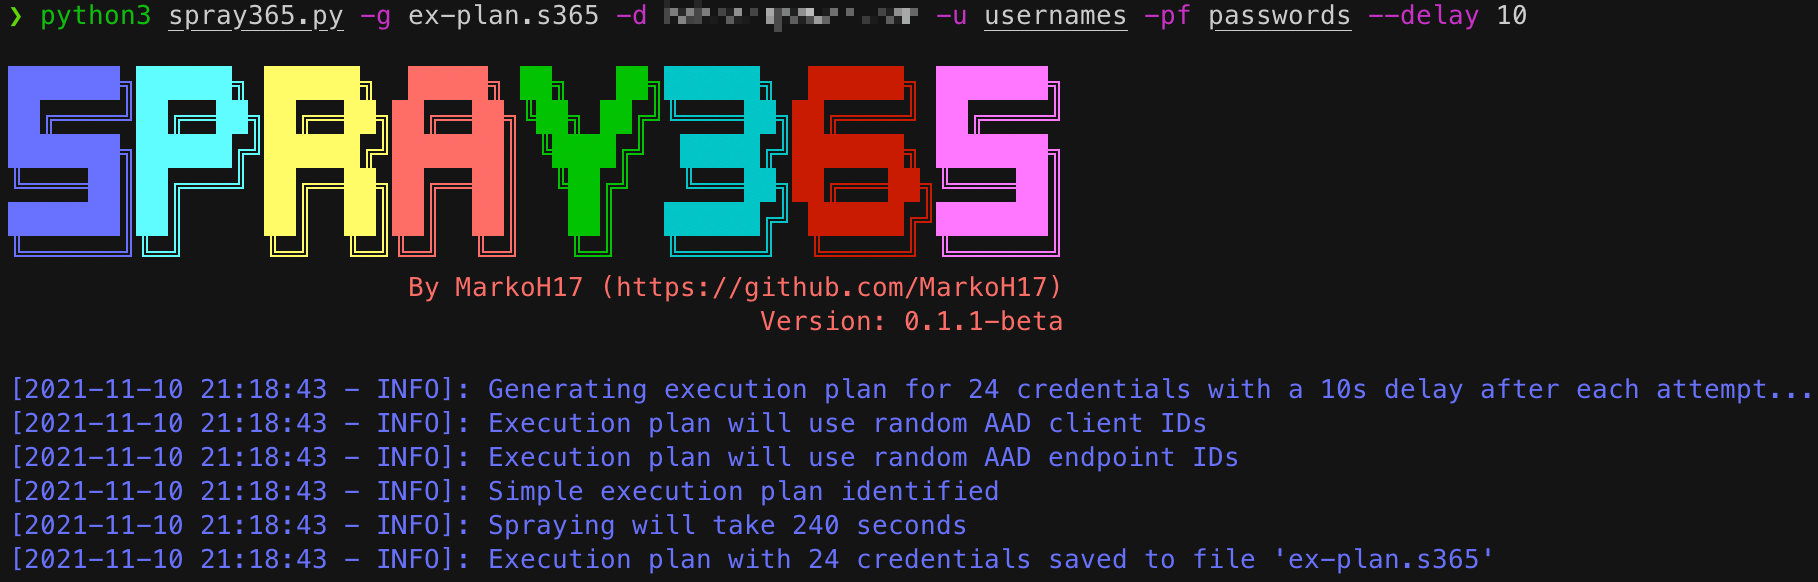
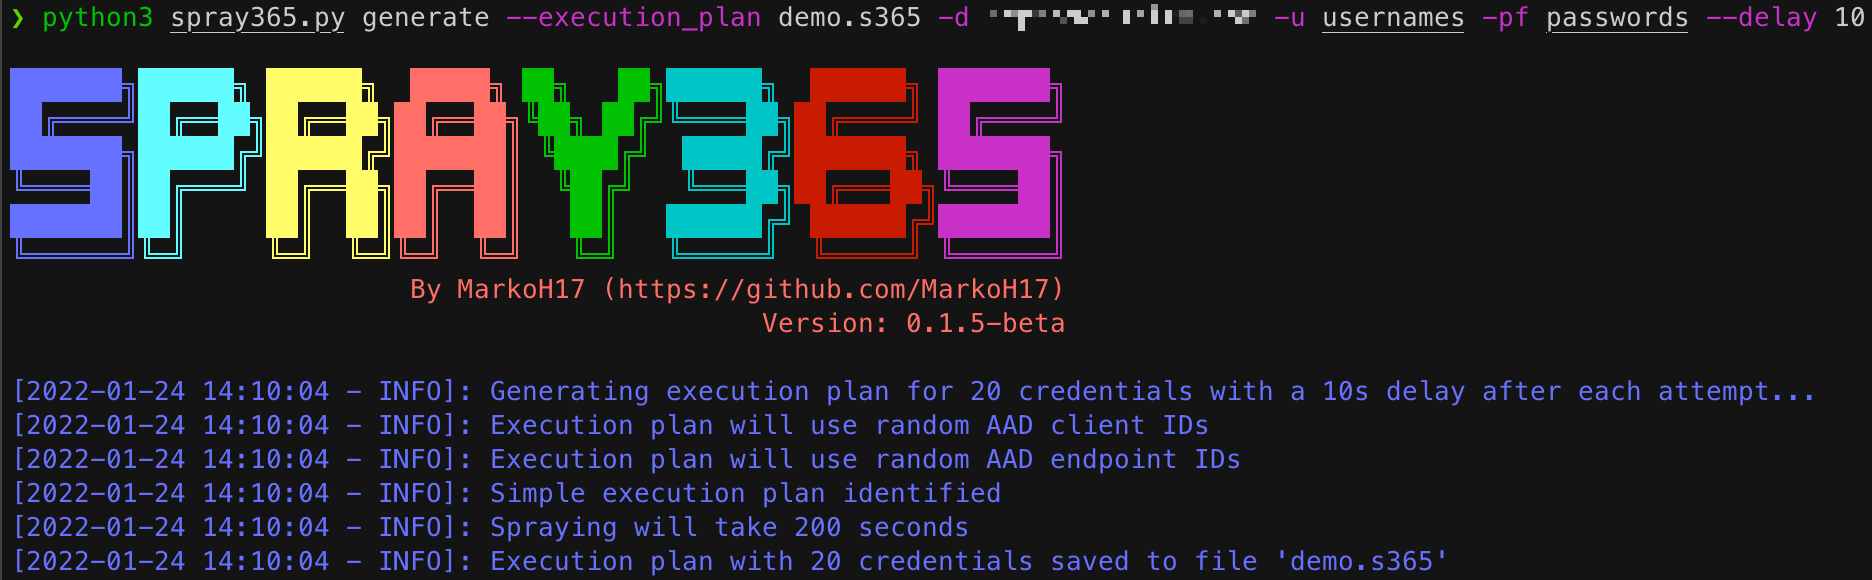
Fixed Bug in Spray365 Mode Selection, Updated Readme and Screenshots
CHANGED - Spray365 validates the mode (generate / spray) before launching
CHANGED - Readme and screenshots to reflect recent changes

diff --git a/spray365.py b/spray365.py
@@ -235,7 +235,7 @@ def initialize():
     )
 
     subparsers = parser.add_subparsers(
-        help="mode help", dest="mode")
+        help="mode help", dest="mode", required=True)
 
     generate_mode_parser = subparsers.add_parser(
         "generate", help="Generate an execution plan", formatter_class=argparse.ArgumentDefaultsHelpFormatter)

diff --git a/README.md b/README.md
@@ -45,33 +45,43 @@ $ cd Spray365
 #### Generate an Execution Plan
 An execution plan is needed to spray credentials, so we need to create one! Spray365 can generate its own execution plan by running it in "generate" (`-g`) mode.
 ```bash
-$ python3 spray365.py -g <path_for_saved_execution_plan> -d <domain_name> -u <file_containing_usernames> -pf <file_containing_passwords>
+$ python3 spray365.py generate --execution_plan <execution_plan_filename> -d <domain_name> -u <file_containing_usernames> -pf <file_containing_passwords>
 ```
 e.g.
 ```bash
-$ python3 spray365.py -g ex-plan.s365 -d example.com -u usernames -pf passwords
+$ python3 spray365.py generate --execution_plan ex-plan.s365 -d example.com -u usernames -pf passwords
 ```
 
 #### Spraying an Execution Plan
 Once an execution plan is available, Spray365 can be used to process it. Running Spray365 in "spray" (`-s`) mode will process the specified execution plan and spray the appropriate credentials.
 ```bash
-$ python3 spray365.py -s <path_to_execution_plan>
+$ python3 spray365.py spray --execution_plan <execution_plan_filename>
 ```
 e.g.
 ```bash
-$ python3 spray365.py -s ex-plan.s365
+$ python3 spray365.py spray --execution_plan ex-plan.s365
 ```
 
 ### Other Options for Advanced Usage
 #### Generate Mode Options
 
+`-ep / --execution_plan <string>`: File to store the generated Spray365 execution plan (default: None)
+
+`-d / --domain <string>`: Office 365 domain to authenticate against (default: None)
+
+`-u / --user_file <string>`: File containing usernames to spray (one per line without domain) (default: None)
+
+`-p / --password <string>`: Password to spray (default: None)
+
+`-pf / --password_file <string>`: File containing passwords to spray (one per line) (default: None)
+
 `--delay <int>`: Delay in seconds to wait between authentication attempts (default: 30)
 
-`-cID / --aad_client <string>`: Client ID to use during authentication workflow (None for random selection, specify multiple in a comma-separated string) (default: None)
+`-cID / --aad_client <string>`: Client ID used during authentication workflow (None for random selection, specify multiple in a comma-separated string) (default: None)
 
-`-eID / --aad_endpoint <string>`: Endpoint ID to use during authentication workflow (None for random selection, specify multiple in a comma-separated string) (default: None)
+`-eID / --aad_endpoint <string>`: Endpoint ID to specify during authentication workflow (None for random selection, specify multiple in a comma-separated string) (default: None)
 
-`-S / --shuffle_auth_order`: Shuffle order of authentication attempts so that each iteration (User1:Pass1, User2:Pass1, User3:Pass1) will be sprayed in a random order, and with a random arrangement of passwords, e.g. (User4:Pass16, User13:Pass25, User19:Pass40). Be aware this option introduces the possibility that the time between consecutive authentication attempts for a given user may occur as quickly as `DELAY` seconds apart. Consider using the `-mD / --min_cred_loop_delay` option to enforce a minimum delay between authentication attempts for any given user. (default: False)
+`-S / --shuffle_auth_order`: Shuffle order of authentication attempts so that each iteration (User1:Pass1, User2:Pass1, User3:Pass1) will be sprayed in a random order, and with a random arrangement of passwords, e.g (User4:Pass16, User13:Pass25, User19:Pass40). Be aware this option introduces the possibility that the time between consecutive authentication attempts for a given user may occur DELAY seconds apart. Consider using the -mD/--min_cred_loop_delay option to enforce a minimum delay between authentication attempts for any given user. (default: False)
 
 `-SO / --shuffle_optimization_attempts <int>`: Number of random execution plans to generate for identifying the fastest execution plan (default: 10)
 
@@ -79,15 +89,21 @@ $ python3 spray365.py -s ex-plan.s365
 
 `-cUA / --custom_user_agent <string>`: Set custom user agent for authentication requests (default: None)
 
-`-rUA, --random_user_agent`: Randomize user agent for authentication requests (default: False)
+`-rUA / --random_user_agent`: Randomize user agent for authentication requests (default: False)
   
 #### Spray Mode Options
   
-`--lockout <int>`: Number of account lockouts to observe before aborting spraying session (disable with 0) (default: 5)
+`-ep, --execution_plan <string>`: File containing Spray365 execution plan to use for password spraying (default: None)
 
-`--proxy <string>`: HTTP Proxy URL (format: http[s]://proxy.address:port) (default: None)
+`-l, --lockout <int>`: Number of account lockouts to observe before aborting spraying session (disable with 0) (default: 5)
 
-`-R / --resume_index <int>`: Resume spraying passwords from this position in the execution plan (default: 0)
+`-x, --proxy <string>`: HTTP Proxy URL (format: http[s]://proxy.address:port) (default: None)
+
+`-k, --insecure`: Disable HTTPS certificate verification (default: False)
+
+`-R, --resume_index <int>`: Resume spraying passwords from this position in the execution plan (default: 0)
+
+`-i, --ignore_success`: Ignore successful authentication attempts for users and continue to spray credentials. Setting this flag will enable spraying credentials for users even if Spray365 has already identified valid credentials. (default: False)
 
 
 ## Acknowledgements
